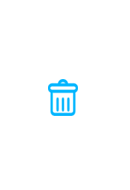
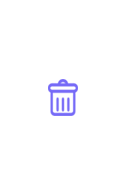
no critical change

Changed region(s): [[0.3692, 0.3947, 0.6154, 0.6316]]

diff --git a/Motori/ProfileViewController.m b/Motori/ProfileViewController.m
@@ -182,7 +182,7 @@
         
         [UIView animateWithDuration:1 animations:^{
         
-            self.SaveUIButton.backgroundColor =[UIColor colorWithRed:0/255.f green:190/255.f blue:255/255.f alpha:1];
+            self.SaveUIButton.backgroundColor =[UIColor colorWithRed:118/255.f green:106/255.f blue:247/255.f alpha:1];
             [self.view setBackgroundColor:[UIColor colorWithRed:48/255.f green:71/255.f blue:88/255.f alpha:1]];
             
         }];
@@ -195,7 +195,7 @@
         self.textFieldEnterDate.userInteractionEnabled = NO;
         [UIView animateWithDuration:1 animations:^{
             [self.SaveUIButton setBackgroundColor:[UIColor colorWithRed:48/255.f green:71/255.f blue:88/255.f alpha:1]];
-            self.view.backgroundColor =[UIColor colorWithRed:0/255.f green:190/255.f blue:255/255.f alpha:1];
+            self.view.backgroundColor =[UIColor colorWithRed:118/255.f green:106/255.f blue:247/255.f alpha:1];
    
         }];
         isSave = NO;

diff --git a/Motori/HistoryTableViewController.m b/Motori/HistoryTableViewController.m
@@ -333,7 +333,7 @@
         cell.layerView.backgroundColor = [UIColor grayColor];
     }
     else
-        cell.layerView.backgroundColor = [UIColor colorWithRed:12/255.f green:127/255.f blue:209/255.f alpha:1];
+        cell.layerView.backgroundColor = [UIColor colorWithRed:118/255.f green:106/255.f blue:247/255.f alpha:1];
 
     
     if ([indexPath compare:selectedIndexPath] != NSOrderedSame) {
